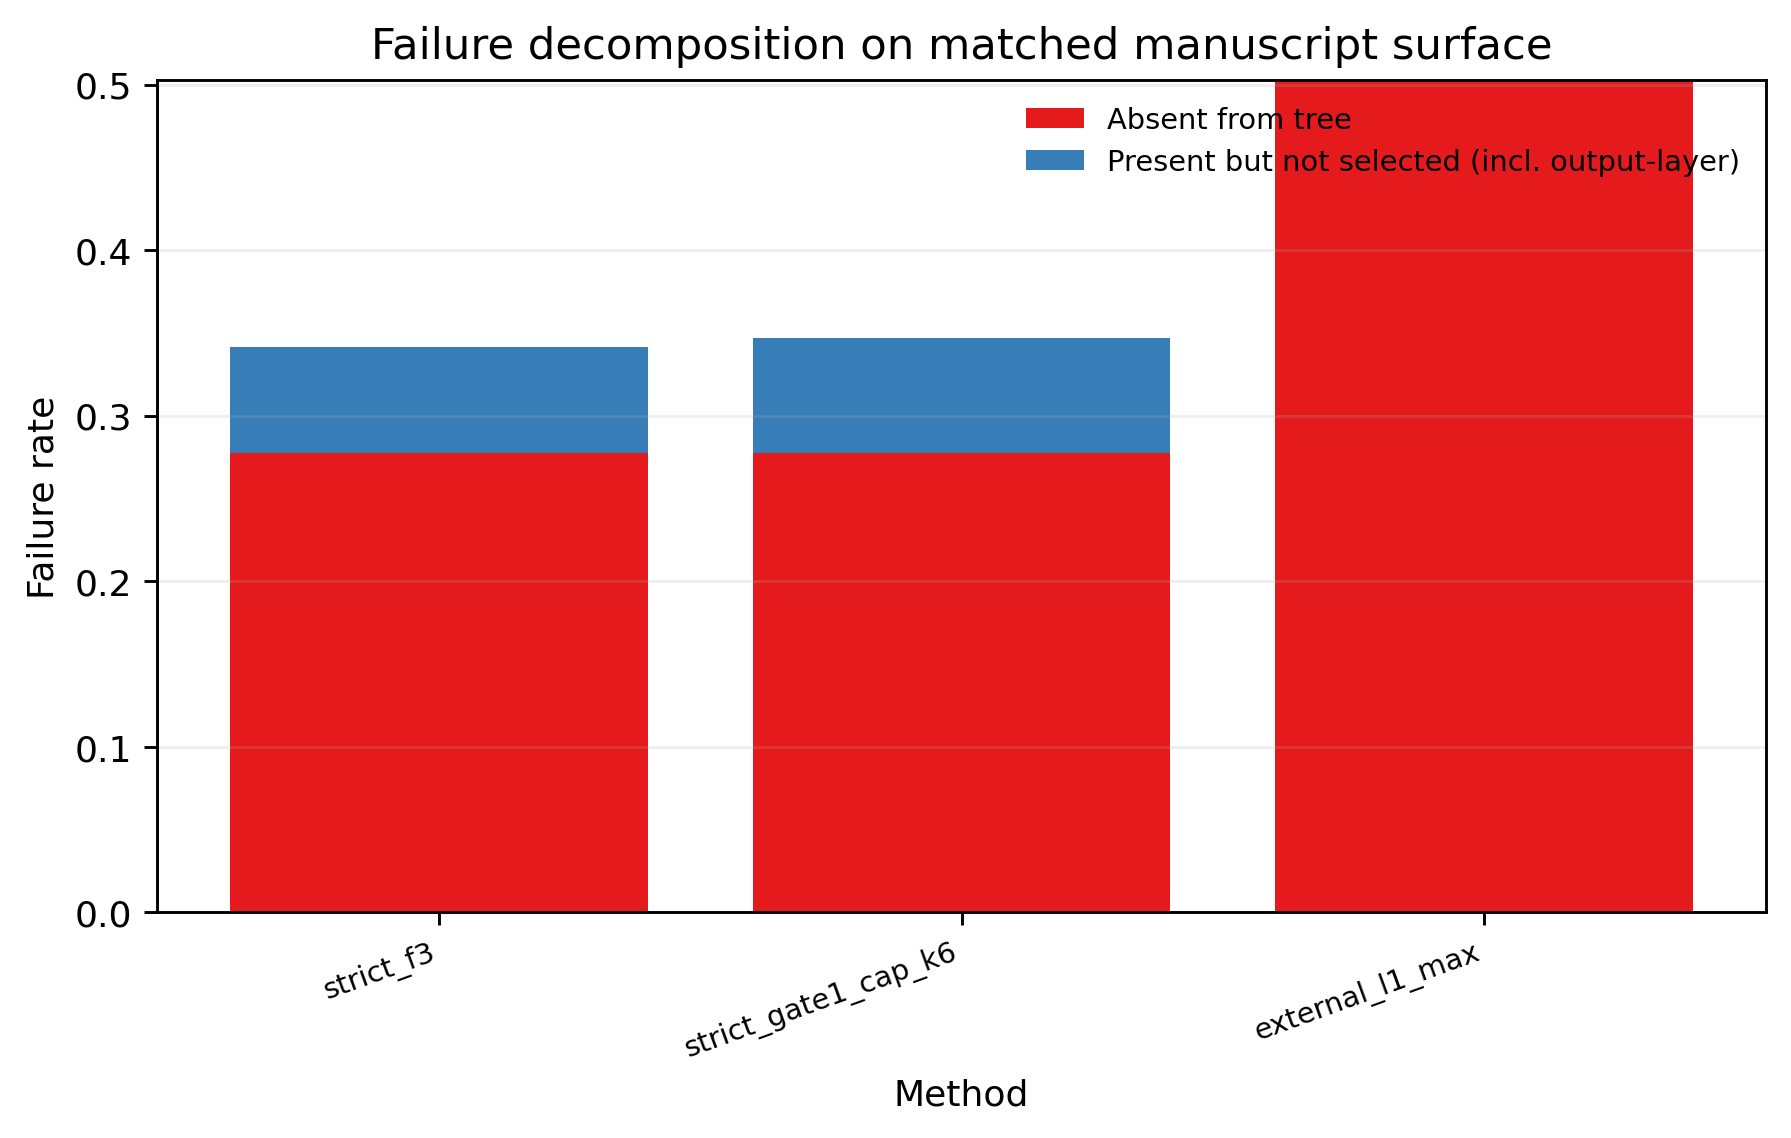
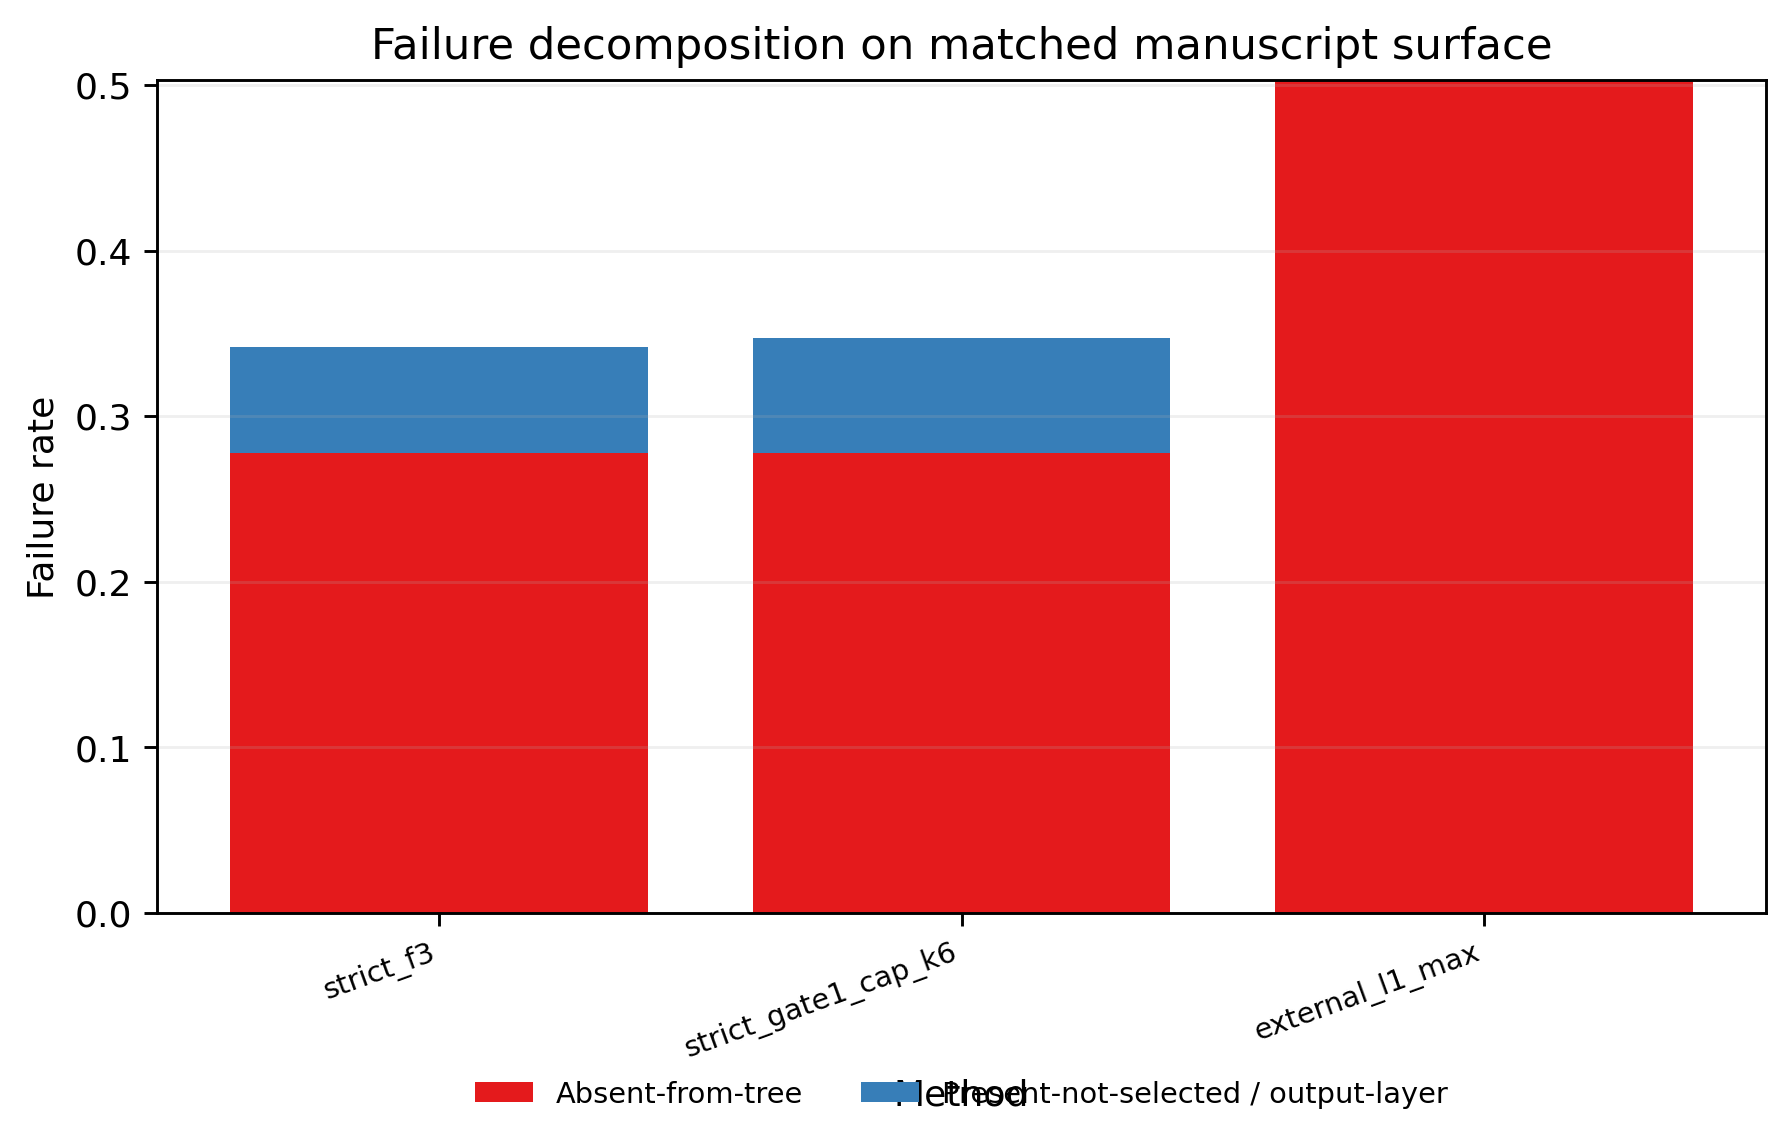
Clean failure decomposition figure legend layout.
Move the failure-category legend outside the plotting area and shorten labels so the locked manuscript-surface Figure 3 remains readable and publication-ready without altering underlying values or method coverage.

Made-with: Cursor

diff --git a/scripts/paper/plot_figure6_failure_decomposition.py b/scripts/paper/plot_figure6_failure_decomposition.py
@@ -20,12 +20,12 @@ def main() -> None:
 
     fig, ax = plt.subplots(figsize=(STYLE.width + 0.2, STYLE.height + 0.5))
     x = np.arange(len(labels))
-    ax.bar(x, tree, label="Absent from tree", color="#e41a1c")
+    ax.bar(x, tree, label="Absent-from-tree", color="#e41a1c")
     ax.bar(
         x,
         selected_wrong,
         bottom=tree,
-        label="Present but not selected (incl. output-layer)",
+        label="Present-not-selected / output-layer",
         color="#377eb8",
     )
 
@@ -35,8 +35,14 @@ def main() -> None:
     ax.set_xticks(x)
     ax.set_xticklabels(labels, rotation=20, ha="right", fontsize=STYLE.tick_size)
     ax.grid(True, axis="y", alpha=STYLE.grid_alpha)
-    ax.legend(frameon=False, fontsize=STYLE.legend_size, loc="upper right")
-    fig.subplots_adjust(bottom=0.24)
+    ax.legend(
+        frameon=False,
+        fontsize=STYLE.legend_size,
+        loc="upper center",
+        bbox_to_anchor=(0.5, -0.17),
+        ncols=2,
+    )
+    fig.subplots_adjust(bottom=0.30)
 
     save_fig(fig, FIGURE_DIR / "figure3_failure_decomposition.pdf", FIGURE_DIR / "figure3_failure_decomposition.png")
 

diff --git a/docs/FINAL_FIGURE_PACKAGE_REPORT_20260422T181524Z.md b/docs/FINAL_FIGURE_PACKAGE_REPORT_20260422T181524Z.md
@@ -66,6 +66,7 @@
 - Plot readability:
   - Simplified comparator set to avoid legend crowding.
   - Axis labels and titles standardized and non-conflicting.
+  - `figure3_failure_decomposition` legend/layout was cleaned so legend text does not overlap the plotted region.
 
 ## Omitted figures and rationale
 - Prior broad default and formula-sweep heavy figures were omitted from final manuscript package because they conflict with the locked manuscript-facing strict_f3 story or add low-value redundancy under page pressure.